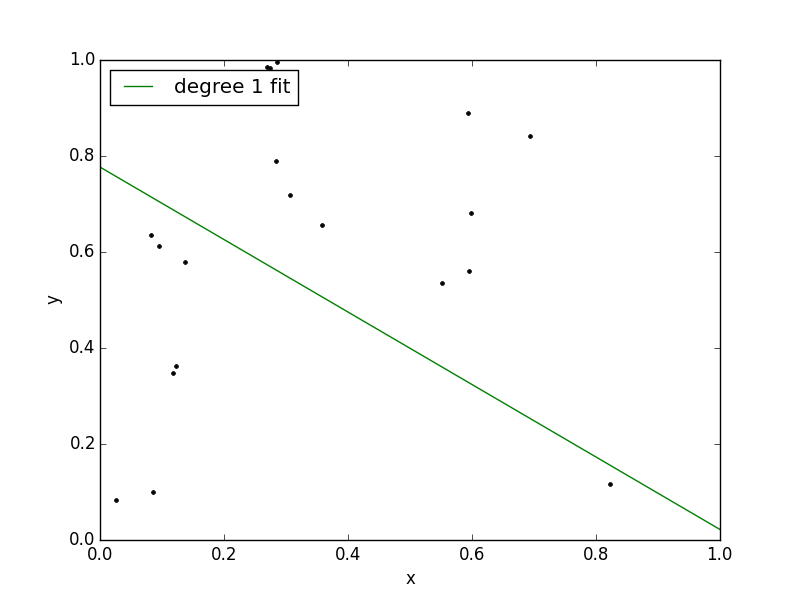
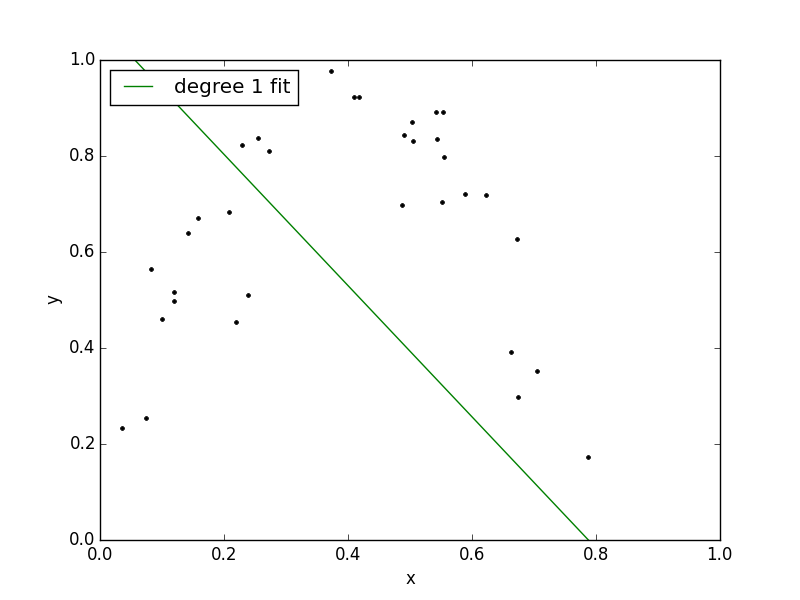
adding polyreg charts

diff --git a/polynomialRegression.py b/polynomialRegression.py
@@ -15,13 +15,13 @@ import pandas as pd
 from copy import deepcopy
 
 # Generating example data
-n = 30
+n = 50
 x = np.array([random.random() for i in range(n)])
 x.sort(axis=0)
 y = np.array([math.sin(4*i) for i in x])
 
 # Adding noise to Y
-e = np.array([random.gauss(0,1.0/5.0) for i in range(n)])
+e = np.array([random.gauss(0,1.0/7.0) for i in range(n)])
 y = y + e
 
 # Converting data to Pandas DataFrame as input to sk-learn models
@@ -85,7 +85,7 @@ def plot_poly_predictions(data, model):
 
 # Generating and saving charts to visualize overfitting
 def save_plots(data, degree_range):
-    for i in range(degree_range + 1):
+    for i in range(1, degree_range):
         plt.clf()
         model = polynomial_regression(data, deg=i)
         plot_poly_predictions(data, model)
@@ -93,3 +93,8 @@ def save_plots(data, degree_range):
         plt.savefig(filename)
         
 save_plots(data, 15)
+
+# Specifying the model parameters and plotting the best fit line separately
+plt.clf()
+model = polynomial_regression(data, deg=10)
+plot_poly_predictions(data, model)
